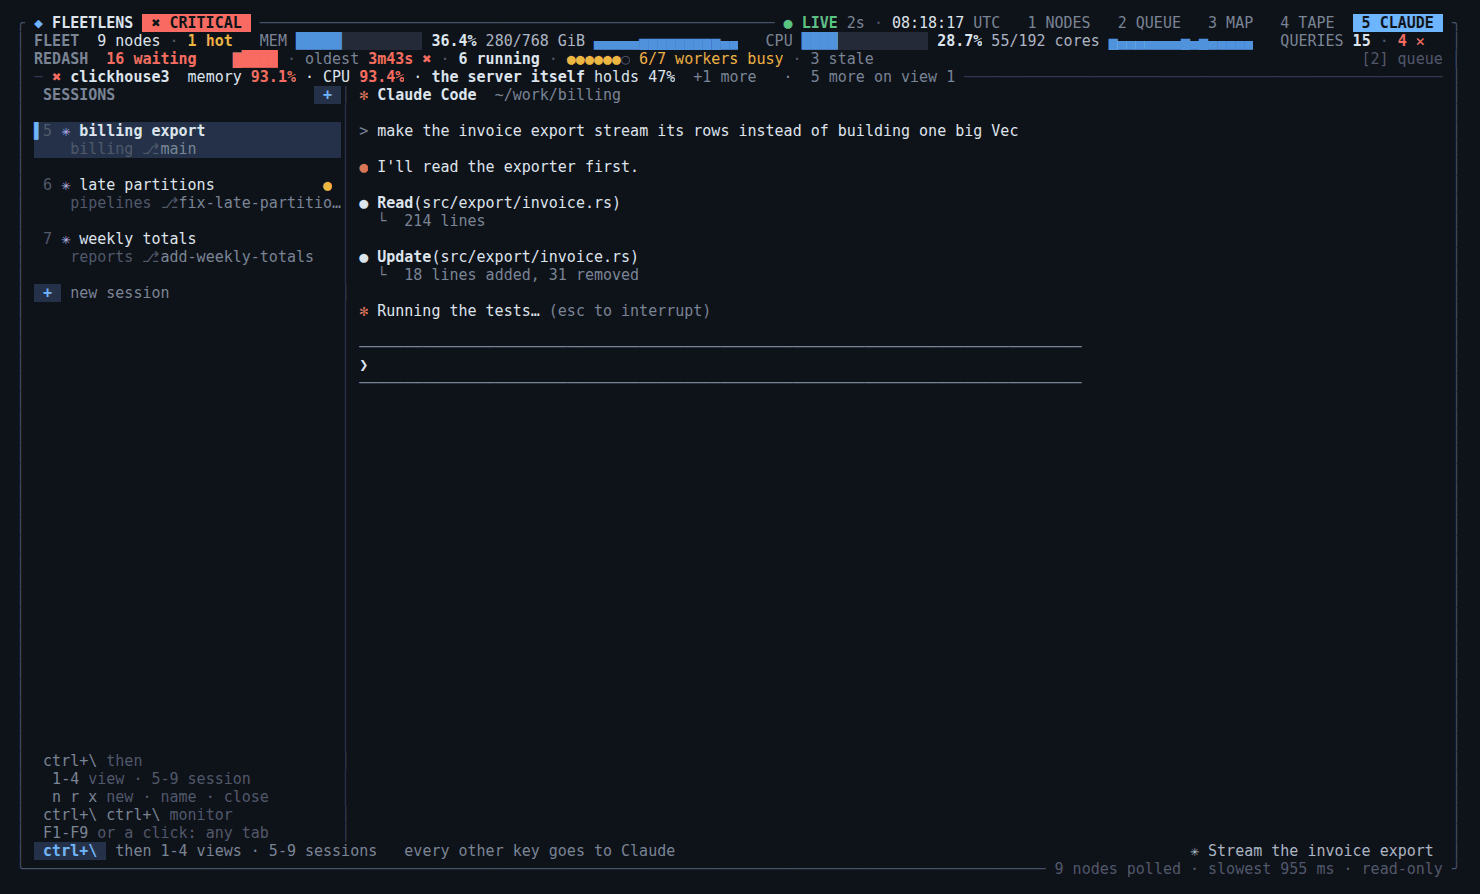
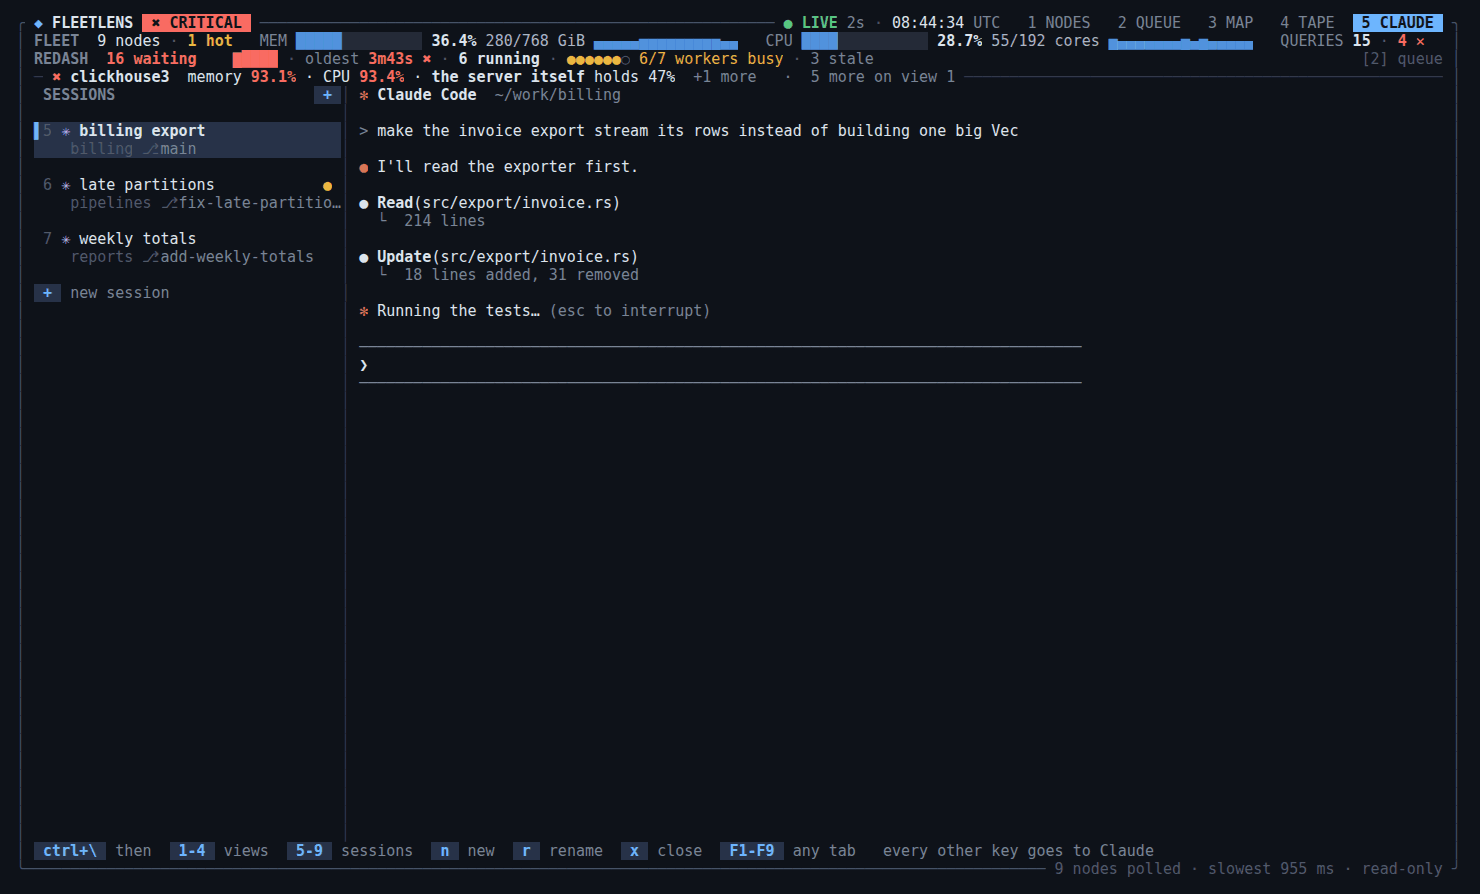
Tidy view 5's bottom: the keys once, in the footer
The keys were said twice on view 5 — a ragged block at the bottom of the session list and a
footer hint that ran across the list's edge — with Claude's title repeated at its end.

- The footer is a key bar like every other view's: ctrl+\ then 1-4 views, 5-9 sessions,
  n new, r rename, x close, and F1-F9 for any tab. After ctrl+\ the same bar lights its
  ctrl+\ and ends with the way back; nothing else moves.
- The session list holds only the sessions and the + (the narrow bar too), and the title
  is shown once, in the list.
- A discovery failure names the server as the screen does, not by its URL. A notice on the
  bottom border takes the node counts' room when it needs it and is cut with … rather
  than run into them.

Claude-Session: https://claude.ai/code/session_01BNszZX6xgago8ZuCEufbfb

Changed region(s): [[0.0311, 0.8456, 0.777, 0.9664], [0.8081, 0.9362, 0.9635, 0.9664], [0.6216, 0.0, 0.6527, 0.0302]]

diff --git a/src/ui/mod.rs b/src/ui/mod.rs
@@ -137,13 +137,20 @@ pub fn draw_with(frame: &mut Frame, app: &App, theme: &Theme) {
         Severity::None
     };
 
+    // A notice on the bottom border comes before the counts beside it: they make way for it,
+    // and what is still too long is cut with … rather than run into them.
+    let mut right = bottom_right(app, theme, true);
+    let room = |right: &Line<'_>| (area.width as usize).saturating_sub(2 + right.width() + 2);
+    if app.notice().is_some_and(|n| fmt::width(n) + 4 > room(&right)) {
+        right = bottom_right(app, theme, false);
+    }
     let block = Block::bordered()
         .border_type(BorderType::Rounded)
         .border_style(theme.border())
         .title_top(header_left(app, theme, status, area.width))
         .title_top(header_right(app, theme, area.width).right_aligned())
-        .title_bottom(bottom_left(app, theme))
-        .title_bottom(bottom_right(app, theme).right_aligned());
+        .title_bottom(bottom_left(app, theme, room(&right)))
+        .title_bottom(right.right_aligned());
     let inner = block.inner(area);
     frame.render_widget(block, area);
     tab_hits(frame, app, area);
@@ -277,19 +284,21 @@ fn header_right(app: &App, theme: &Theme, width: u16) -> Line<'static> {
     Line::from(spans)
 }
 
-fn bottom_left(app: &App, theme: &Theme) -> Line<'static> {
+/// The latest notice, in `room` cells.
+fn bottom_left(app: &App, theme: &Theme, room: usize) -> Line<'static> {
     match app.notice() {
-        Some(notice) => Line::from(vec![
+        Some(notice) if room > 8 => Line::from(vec![
             Span::styled(" ▲ ", theme.sev(Severity::Warn).add_modifier(Modifier::BOLD)),
-            Span::styled(format!("{notice} "), theme.sev(Severity::Warn)),
+            Span::styled(format!("{} ", fmt::truncate(notice, room - 4)), theme.sev(Severity::Warn)),
         ]),
-        None => Line::from(""),
+        _ => Line::from(""),
     }
 }
 
-fn bottom_right(app: &App, theme: &Theme) -> Line<'static> {
+/// How many nodes answered and how fast, when `counts`, and that nothing here writes.
+fn bottom_right(app: &App, theme: &Theme, counts: bool) -> Line<'static> {
     let mut spans = Vec::new();
-    if let Some(snapshot) = app.snapshot() {
+    if let Some(snapshot) = app.snapshot().filter(|_| counts) {
         let polled = snapshot.nodes.len();
         let slowest = snapshot.nodes.iter().filter_map(|n| n.poll_ms).max();
         let mut text = format!(" {} polled", fmt::plural(polled, "node", "nodes"));
@@ -298,6 +307,8 @@ fn bottom_right(app: &App, theme: &Theme) -> Line<'static> {
         }
         spans.push(Span::styled(text, theme.faint()));
         spans.push(Span::styled(" · ", theme.faint()));
+    } else {
+        spans.push(Span::raw(" "));
     }
     spans.push(Span::styled("read-only ", theme.faint()));
     Line::from(spans)
@@ -332,6 +343,8 @@ fn footer_line(app: &App, theme: &Theme, width: usize) -> Line<'static> {
         Footer::Keys => {}
     }
 
+    // What follows the keys, when there is room for it.
+    let mut tail = None;
     let keys: &[(&str, &str)] = match app.view {
         View::Nodes if app.focus == Focus::Insights => &[
             ("↑↓", "choose"),
@@ -388,28 +401,34 @@ fn footer_line(app: &App, theme: &Theme, width: usize) -> Line<'static> {
             ("esc", "cancel"),
             ("ctrl+u", "clear"),
         ],
-        View::Claude if app.claude.mode == crate::claude::Mode::Bar => &[
-            ("1-4", "views"),
-            ("5-9", "sessions"),
-            ("n", "new"),
-            ("r", "rename"),
-            ("x", "close"),
-            ("ctrl+\\", "monitor"),
-            ("esc", "back to Claude"),
-        ],
+        View::Claude if app.claude.mode == crate::claude::Mode::Bar => {
+            // The bar Claude runs under, its ctrl+\ lit and the way back at its end: nothing
+            // else moves.
+            cells.push(" ctrl+\\ ", theme.tab_active());
+            cells.push(" then", theme.muted());
+            &[
+                ("1-4", "views"),
+                ("5-9", "sessions"),
+                ("n", "new"),
+                ("r", "rename"),
+                ("x", "close"),
+                ("ctrl+\\", "monitor"),
+                ("esc", "back to Claude"),
+            ]
+        }
         View::Claude if app.claude.is_running() => {
-            // Every other key is Claude's; the one that is not opens the bar.
-            cells.spans(keycap("ctrl+\\", "then 1-4 views · 5-9 sessions", theme));
-            cells.push("   every other key goes to Claude", theme.muted());
-            if let Some(title) = app.claude.current().and_then(|s| s.pane.title.as_ref()) {
-                let room = width.saturating_sub(cells.width() + 2);
-                if room > 8 {
-                    let title = fmt::truncate(title, room);
-                    cells.pad_to(width.saturating_sub(fmt::width(&title) + 1));
-                    cells.push(title, theme.text2());
-                }
-            }
-            return cells.line(width, Style::default());
+            // Every other key is Claude's; the one that is not leads the bar.
+            cells.push(" ctrl+\\ ", theme.keycap());
+            cells.push(" then", theme.muted());
+            tail = Some("every other key goes to Claude");
+            &[
+                ("1-4", "views"),
+                ("5-9", "sessions"),
+                ("n", "new"),
+                ("r", "rename"),
+                ("x", "close"),
+                ("F1-F9", "any tab"),
+            ]
         }
         View::Claude => &[
             ("⏎", "start Claude"),
@@ -419,9 +438,9 @@ fn footer_line(app: &App, theme: &Theme, width: usize) -> Line<'static> {
             ("q", "quit"),
         ],
     };
-    for (i, (key, label)) in keys.iter().enumerate() {
+    for (key, label) in keys {
         let mut piece = Cells::new();
-        if i > 0 {
+        if cells.width() > 0 {
             piece.push("  ", Style::default());
         }
         piece.spans(keycap(key, label, theme));
@@ -430,6 +449,11 @@ fn footer_line(app: &App, theme: &Theme, width: usize) -> Line<'static> {
             break;
         }
         cells.spans(piece.into_spans());
+    }
+    if let Some(tail) = tail.map(|t| format!("   {t}"))
+        && cells.width() + fmt::width(&tail) <= width
+    {
+        cells.push(tail, theme.muted());
     }
     cells.line(width, Style::default())
 }

diff --git a/src/ui/tests.rs b/src/ui/tests.rs
@@ -259,11 +259,20 @@ fn sessions_are_a_list_beside_claude_and_can_be_renamed() {
     assert!(!row("6 ✳ infra").is_empty(), "the second, by its name: {screen}");
     assert!(screen.contains("the second session") && !screen.contains("the first session"), "only the session on screen: {screen}");
     assert!(screen.contains("+  new session"), "{screen}");
-    assert!(screen.contains("5-9 session") && screen.contains("F1-F9"), "the keys, for when the mouse is not at hand: {screen}");
+    // The keys are the footer's, said once, and pressing ctrl+\ moves none of them.
+    let footer = |screen: &str| screen.lines().rev().nth(1).unwrap_or_default().to_string();
+    let typing = footer(&screen);
+    assert!(typing.contains("ctrl+\\  then   1-4  views   5-9  sessions   n  new   r  rename   x  close"), "{typing}");
+    assert!(typing.contains("F1-F9  any tab"), "for a terminal that keeps ctrl+\\: {typing}");
+    assert_eq!(screen.matches("5-9").count(), 1, "not in the list too: {screen}");
 
     app.update(ctrl('\\'));
     let bar = render(&app, 140, 40);
-    assert!(bar.contains("which one?") && bar.contains("rename") && bar.contains("close"), "{bar}");
+    assert!(bar.contains("which one?"), "{bar}");
+    let lit = footer(&bar);
+    let at = |line: &str, text: &str| line.find(text).unwrap_or_else(|| panic!("{text} in {line}"));
+    assert_eq!(at(&lit, "1-4  views"), at(&typing, "1-4  views"), "{lit}");
+    assert!(lit.contains("x  close   ctrl+\\  monitor   esc  back to Claude"), "the way back: {lit}");
     app.update(key(KeyCode::Char('x')));
     let closing = render(&app, 140, 40);
     assert!(closing.contains("x again closes it"), "{closing}");
@@ -303,8 +312,11 @@ fn claude_runs_in_view_five_under_the_monitor() {
     assert!(lines[1].contains("FLEET") && lines[2].contains("REDASH"), "the band stays: {screen}");
     assert!(lines[3].contains("✖ clickhouse3"), "the worst of the fleet under the band: {}", lines[3]);
     assert!(lines[0].contains("5 CLAUDE"), "a tab of its own: {}", lines[0]);
-    assert!(screen.contains("ctrl+\\") && screen.contains("every other key goes to Claude"), "{screen}");
-    assert!(screen.contains("✳ Tidy the README"), "Claude's task, from its title: {screen}");
+    assert!(screen.contains("✳ Tidy the README"), "Claude's task, from its title, in the list: {screen}");
+    let footer = lines[lines.len() - 2];
+    assert!(footer.contains("ctrl+\\  then") && !footer.contains("Tidy the README"), "keys only: {footer}");
+    let wide = render(&app, 160, 40);
+    assert!(wide.lines().rev().nth(1).unwrap().contains("any tab   every other key goes to Claude"), "{wide}");
     assert!(!screen.contains("─ job ·") && !screen.contains("INSIGHTS"), "no drawer, no insights: {screen}");
 }
 
@@ -319,6 +331,21 @@ fn claude_not_installed_says_how_to_get_it() {
     assert!(screen.contains("not installed"), "{screen}");
     assert!(screen.contains("no API key"), "it runs on the plan: {screen}");
     assert!(screen.contains("start Claude"), "⏎ is offered: {screen}");
+}
+
+#[test]
+fn a_notice_on_the_border_makes_room_and_never_runs_into_the_counts() {
+    let mut app = app_after(3);
+    let said = "discovery via clickhouse-events.example.net: no access — r_reports_daily needs SELECT on system.clusters";
+    app.update(Event::Notice(said.into()));
+    let bottom = |width: u16| render(&app, width, 30).lines().last().unwrap_or_default().to_string();
+    let wide = bottom(200);
+    assert!(wide.contains(said) && wide.contains("nodes polled"), "room for both: {wide}");
+    let mid = bottom(130);
+    assert!(mid.contains(said) && !mid.contains("nodes polled"), "the counts make way: {mid}");
+    let narrow = bottom(90);
+    assert!(narrow.contains("no access — r_reports") && narrow.contains("… ─"), "cut, and says so: {narrow}");
+    assert!(narrow.contains("─ read-only"), "never run together: {narrow}");
 }
 
 #[test]

diff --git a/src/ui/claude.rs b/src/ui/claude.rs
@@ -112,8 +112,8 @@ fn mark(session: &Session) -> &'static str {
 }
 
 /// The sessions as a list, like a terminal's tabs: number, name — or what Claude says it is
-/// on — and under it the branch and the directory it works in. A `+` opens another; the keys
-/// are at the bottom, for when the mouse is not at hand.
+/// on — and under it the directory it works in and its branch. A `+` opens another; the keys
+/// are the footer's, as on every view.
 fn sidebar(frame: &mut Frame, app: &App, theme: &Theme, area: Rect) {
     let sessions = &app.claude;
     let width = area.width as usize;
@@ -202,27 +202,6 @@ fn sidebar(frame: &mut Frame, app: &App, theme: &Theme, area: Rect) {
         }
         _ => {}
     }
-
-    // The keys, at the bottom, when there is room for them.
-    let keys: [(&str, &str); 5] = [
-        (" ctrl+\\", " then"),
-        ("  1-4", " view · 5-9 session"),
-        ("  n r x", " new · name · close"),
-        (" ctrl+\\ ctrl+\\", " monitor"),
-        (" F1-F9", " or a click: any tab"),
-    ];
-    let height = area.height as usize;
-    if lines.len() + keys.len() < height {
-        while lines.len() + keys.len() < height {
-            lines.push(Line::from(""));
-        }
-        for (key, what) in keys {
-            let mut cells = Cells::new();
-            cells.push(key, theme.muted());
-            cells.push(what, theme.faint());
-            lines.push(cells.line(width, Style::default()));
-        }
-    }
     drop(hits);
     frame.render_widget(Paragraph::new(lines), area);
 }
@@ -272,7 +251,6 @@ fn session_bar(app: &App, theme: &Theme, area: Rect) -> Line<'static> {
         _ => {
             cells.push(" + ", theme.keycap());
             hits.push((Rect::new(x, area.y, 3, 1), Hit::NewSession));
-            cells.push("  ctrl+\\ then 1-4 views · 5-9 sessions · n new · r rename · x close", theme.faint());
         }
     }
     let lit = sessions.mode == Mode::Bar;

diff --git a/src/sources/clickhouse.rs b/src/sources/clickhouse.rs
@@ -387,12 +387,13 @@ impl ClickHouseSource {
         let seed_targets: Vec<NodeTarget> = self.targets.iter().filter(|t| t.seed).cloned().collect();
         for seed in seed_targets {
             let url = seed.url.clone();
+            // Named as the screen names it: the strip has no room for a scheme and a port.
             match self.post(&seed, &sql).await {
                 Ok(body) => match parse_clusters(&body) {
                     Ok(hosts) => answers.push(SeedAnswer { url, hosts }),
-                    Err(e) => errors.push(format!("{url}: {e}")),
+                    Err(e) => errors.push(format!("{}: {e}", seed.name)),
                 },
-                Err(e) => errors.push(format!("{url}: {e}")),
+                Err(e) => errors.push(format!("{}: {e}", seed.name)),
             }
         }
 
@@ -1710,7 +1711,8 @@ mod tests {
         let mut source = ClickHouseSource::new(&config(&seeds, None)).unwrap();
 
         let errors = source.discover().await;
-        assert_eq!(errors, [format!("{c}: login refused — user carol: check its password on this server")]);
+        let carol = c.trim_start_matches("http://");
+        assert_eq!(errors, [format!("{carol}: login refused — user carol: check its password on this server")]);
         let mut hosts: Vec<&str> = source.targets().iter().map(|t| t.host.as_str()).collect();
         hosts.sort();
         assert_eq!(hosts, ["node-a", "node-b"]);

diff --git a/src/main.rs b/src/main.rs
@@ -322,7 +322,7 @@ fn spawn_sources(config: &Config, tx: mpsc::UnboundedSender<Event>) {
                 biased;
                 _ = discovery.tick() => {
                     for error in source.discover().await {
-                        let _ = tx.send(Event::Notice(format!("discovery: {error}")));
+                        let _ = tx.send(Event::Notice(format!("discovery via {error}")));
                     }
                 }
                 _ = polling.tick() => {
